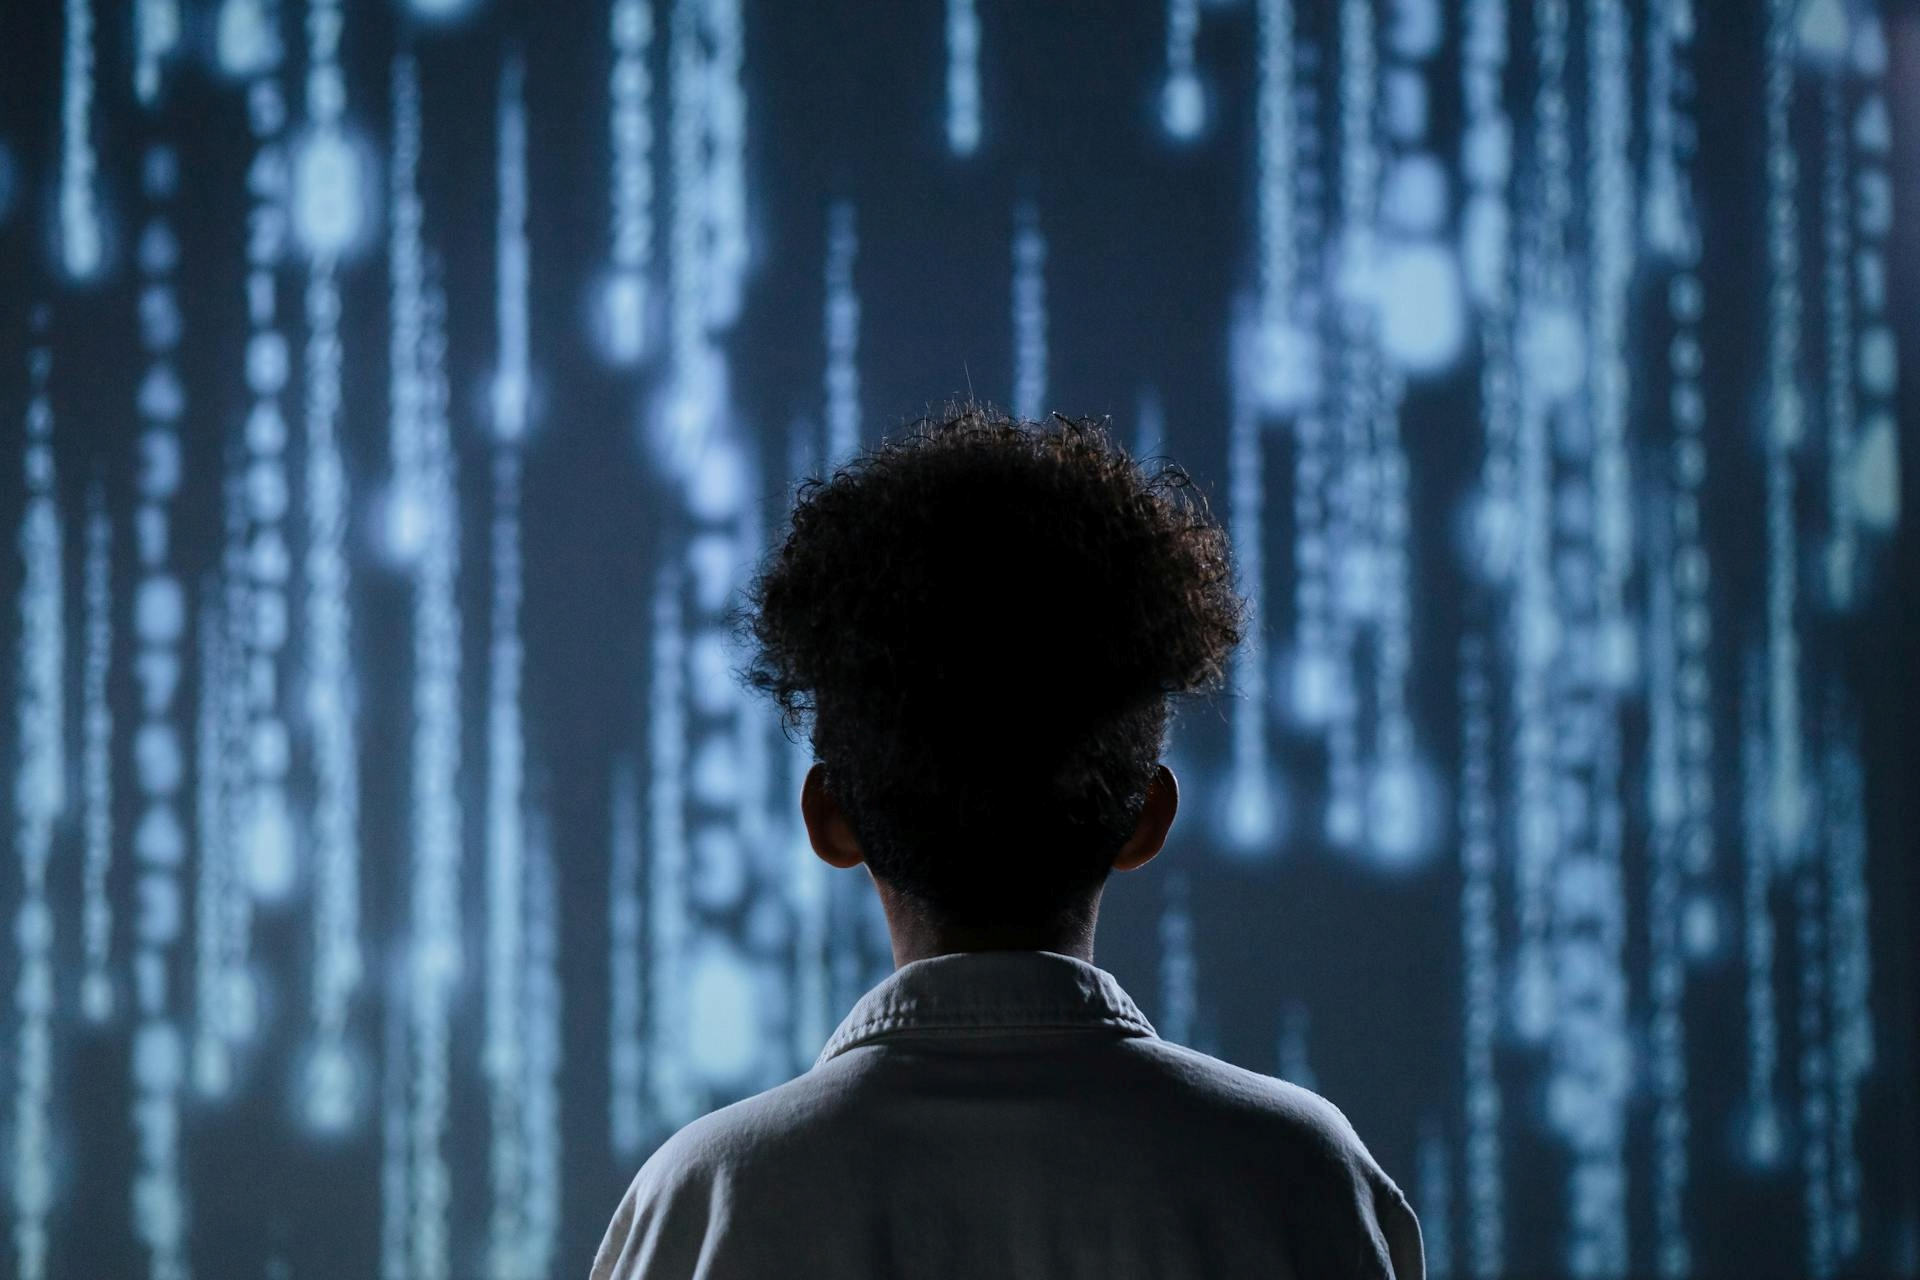
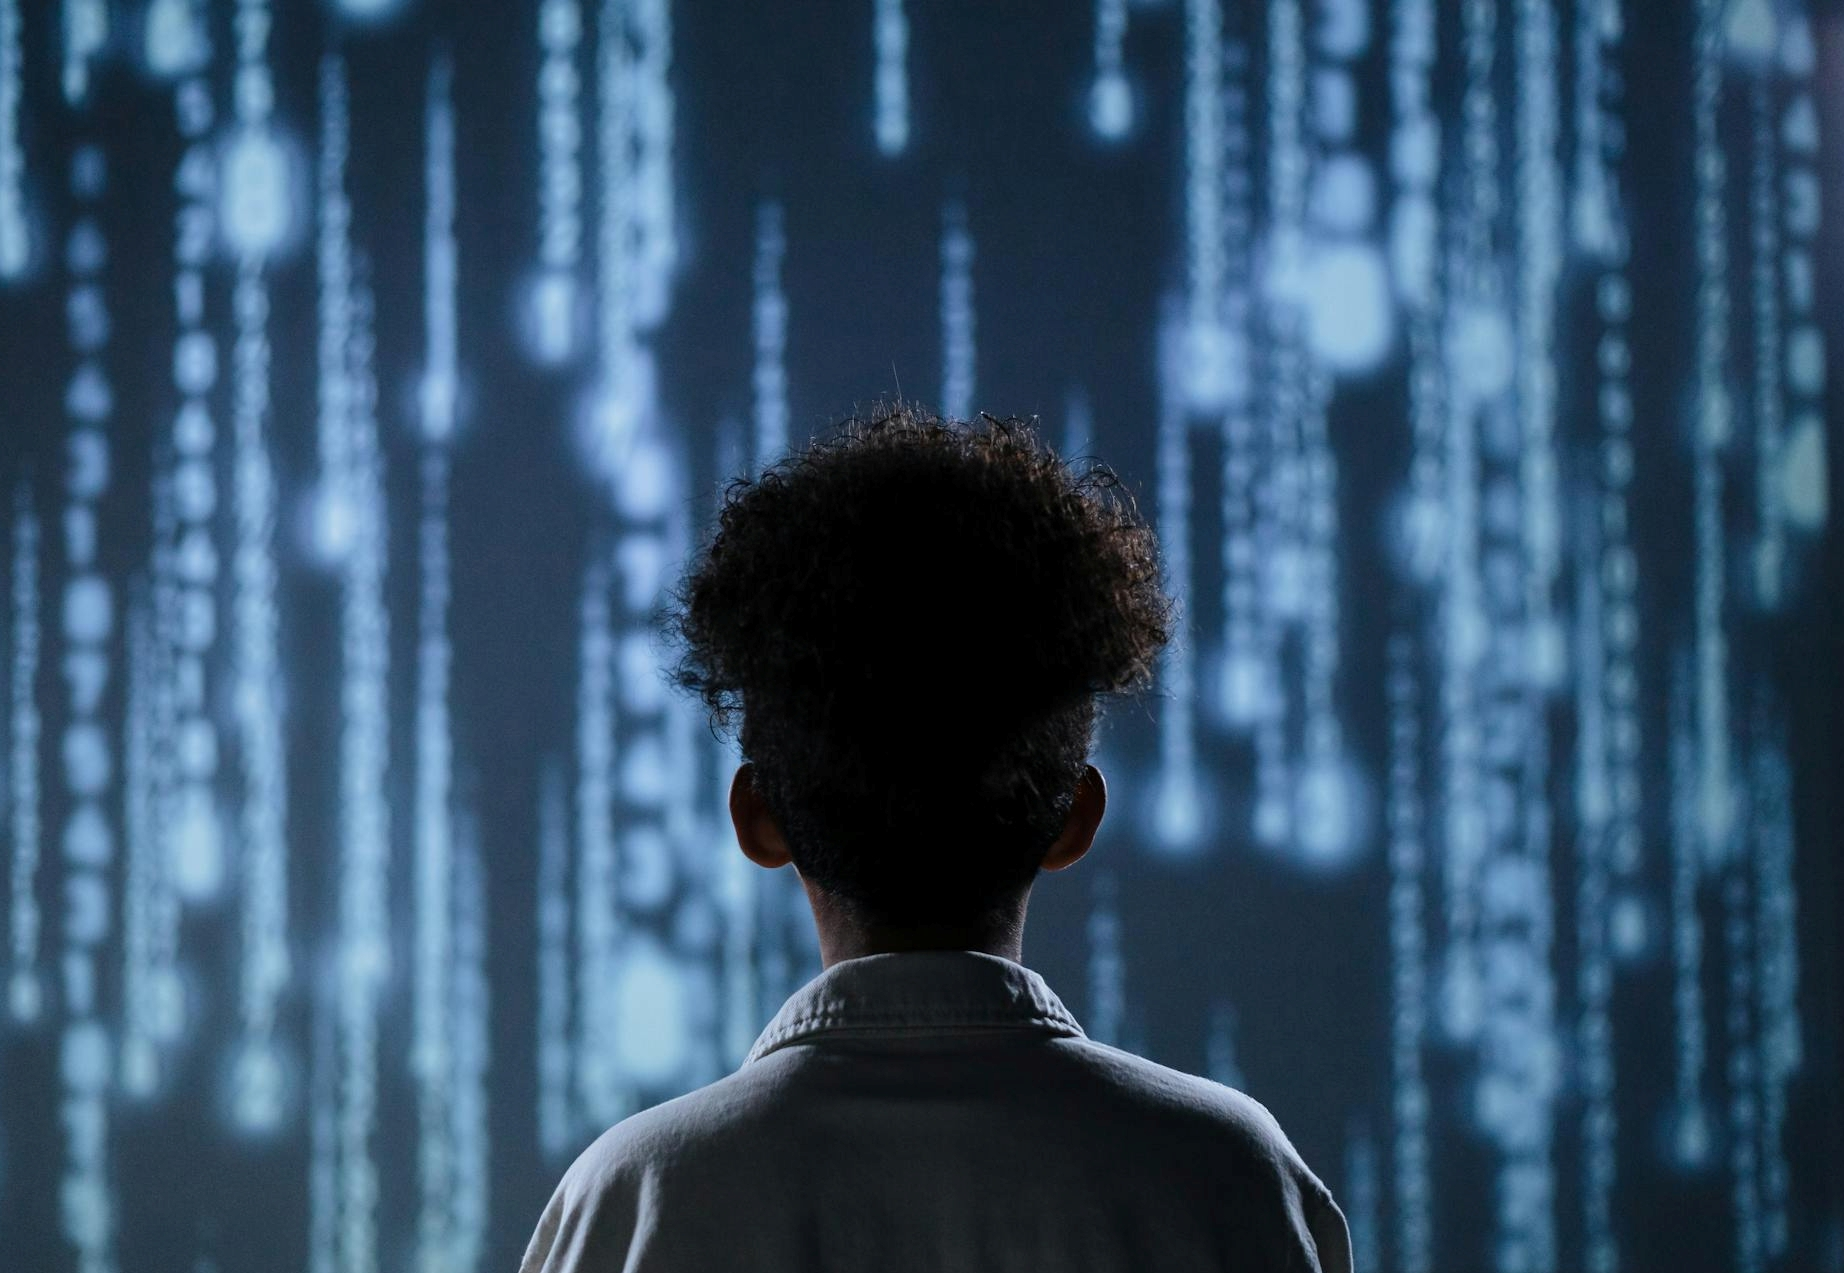
set new background image, set titles

diff --git a/index.html b/index.html
@@ -21,17 +21,16 @@
 							<h2><img src="images/logo.svg" class="logo" alt="" /></h2>
 							<p>plex innovations<br/></p>
 						</div>
-						<a href="#one" class="more scrolly">Learn More</a>
+						<a href="#one" class="more scrolly">Узнать больше</a>
 					</section>
 
 				<!-- One -->
 					<section id="one" class="wrapper style1 special">
 						<div class="inner">
 							<header class="major">
-								<h2>Arcu aliquet vel lobortis ata nisl<br />
-								eget augue amet aliquet nisl cep donec</h2>
-								<p>Aliquam ut ex ut augue consectetur interdum. Donec amet imperdiet eleifend<br />
-								fringilla tincidunt. Nullam dui leo Aenean mi ligula, rhoncus ullamcorper.</p>
+								<h2>С нами будущее ближе.<br/> Мы создаем его вместе с вами.</h2>
+								<p>Мы верим, что будущее строится вместе с нашими клиентами и партнерами <br />каждый шаг вперед—это совместное достижение.
+								</p>
 							</header>
 							<ul class="icons major">
 								<li><span class="icon fa-gem major style1"><span class="label">Lorem</span></span></li>
@@ -45,23 +44,20 @@
 					<section id="two" class="wrapper alt style2">
 						<section class="spotlight">
 							<div class="image"><img src="images/vr.jpg" alt="" /></div><div class="content">
-								<h2>Magna primis lobortis<br />
-								sed ullamcorper</h2>
-								<p>Aliquam ut ex ut augue consectetur interdum. Donec hendrerit imperdiet. Mauris eleifend fringilla nullam aenean mi ligula.</p>
+								<h2>Внедрение<br /> передовых технологий</h2>
+								<p>С нашей стороны — передовые технологии и экспертиза<br/> с вашей — идеи и стремления.</p>
 							</div>
 						</section>
 						<section class="spotlight">
 							<div class="image"><img src="images/team_work.jpg" alt="" /></div><div class="content">
-								<h2>Tortor dolore feugiat<br />
-								elementum magna</h2>
-								<p>Aliquam ut ex ut augue consectetur interdum. Donec hendrerit imperdiet. Mauris eleifend fringilla nullam aenean mi ligula.</p>
+								<h2>Развите команды</h2>
+								<p>Наши специалисты считают передачу знаний и опыта ключевой целью, стремясь вдохновить и обучить своих коллег для достижения общих успехов и инноваций.</p>
 							</div>
 						</section>
 						<section class="spotlight">
 							<div class="image"><img src="images/brainstorm.jpg" alt="" /></div><div class="content">
-								<h2>Augue eleifend aliquet<br />
-								sed condimentum</h2>
-								<p>Aliquam ut ex ut augue consectetur interdum. Donec hendrerit imperdiet. Mauris eleifend fringilla nullam aenean mi ligula.</p>
+								<h2>Командная работа</h2>
+								<p>Вместе мы создаем решения, которые не просто отвечают требованиям времени, но и задают новые стандарты для индустрии</p>
 							</div>
 						</section>
 					</section>
@@ -70,34 +66,33 @@
 					<section id="three" class="wrapper style3 special">
 						<div class="inner">
 							<header class="major">
-								<h2>Accumsan mus tortor nunc aliquet</h2>
-								<p>Aliquam ut ex ut augue consectetur interdum. Donec amet imperdiet eleifend<br />
-								fringilla tincidunt. Nullam dui leo Aenean mi ligula, rhoncus ullamcorper.</p>
+								<h2>Наши главные правила</h2>
+								<p>В нашей компании мы следуем четким и принципиальным правилам, <br/> которые помогают нам оставаться лидерами и поддерживать высокий уровень доверия</p>
 							</header>
 							<ul class="features">
 								<li class="icon fa-paper-plane">
-									<h3>Arcu accumsan</h3>
-									<p>Augue consectetur sed interdum imperdiet et ipsum. Mauris lorem tincidunt nullam amet leo Aenean ligula consequat consequat.</p>
+									<h3>Наставничество и обучение</h3>
+									<p>Наши специалисты считают передачу знаний и опыта ключевой целью, вдохновляя и обучая своих коллег для достижения общих успехов и инноваций.</p>
 								</li>
 								<li class="icon solid fa-laptop">
-									<h3>Ac Augue Eget</h3>
-									<p>Augue consectetur sed interdum imperdiet et ipsum. Mauris lorem tincidunt nullam amet leo Aenean ligula consequat consequat.</p>
+									<h3>Инновации и технологии</h3>
+									<p>Мы активно внедряем передовые технологии и инновационные подходы, чтобы оставаться лидерами в нашей области.</p>
 								</li>
 								<li class="icon solid fa-code">
-									<h3>Mus Scelerisque</h3>
-									<p>Augue consectetur sed interdum imperdiet et ipsum. Mauris lorem tincidunt nullam amet leo Aenean ligula consequat consequat.</p>
+									<h3>Высокий уровень профессионализма</h3>
+									<p>Мы ставим высокие стандарты качества и профессионализма во всем, что делаем, и постоянно развиваем наши навыки и знания.</p>
 								</li>
 								<li class="icon solid fa-headphones-alt">
-									<h3>Mauris Imperdiet</h3>
-									<p>Augue consectetur sed interdum imperdiet et ipsum. Mauris lorem tincidunt nullam amet leo Aenean ligula consequat consequat.</p>
+									<h3>Забота о клиентах</h3>
+									<p>Наши клиенты — наш приоритет. Мы стремимся удовлетворить их потребности и превзойти их ожидания, предоставляя высококачественные решения и услуги.</p>
 								</li>
 								<li class="icon fa-heart">
-									<h3>Aenean Primis</h3>
-									<p>Augue consectetur sed interdum imperdiet et ipsum. Mauris lorem tincidunt nullam amet leo Aenean ligula consequat consequat.</p>
+									<h3>Ценность каждого сотрудника</h3>
+									<p>Мы высоко ценим вклад каждого члена нашей команды и стремимся создавать благоприятные условия для их личного и профессионального роста.</p>
 								</li>
 								<li class="icon fa-flag">
-									<h3>Tortor Ut</h3>
-									<p>Augue consectetur sed interdum imperdiet et ipsum. Mauris lorem tincidunt nullam amet leo Aenean ligula consequat consequat.</p>
+									<h3>Прозрачность и доверие</h3>
+									<p>Мы строим наши отношения на принципах прозрачности, доверия и честности, стремясь быть открытыми и ответственными перед нашими клиентами и сотрудниками.</p>
 								</li>
 							</ul>
 						</div>

diff --git a/assets/css/main.css b/assets/css/main.css
@@ -3981,10 +3981,10 @@ input, select, textarea {
 
 	body.is-mobile.landing #banner,
 	body.is-mobile.landing .wrapper.style4 {
-		background-image: -moz-linear-gradient(top, rgba(0,0,0,0.5), rgba(0,0,0,0.5)), url("../../images/banner.jpg");
-		background-image: -webkit-linear-gradient(top, rgba(0,0,0,0.5), rgba(0,0,0,0.5)), url("../../images/banner.jpg");
-		background-image: -ms-linear-gradient(top, rgba(0,0,0,0.5), rgba(0,0,0,0.5)), url("../../images/banner.jpg");
-		background-image: linear-gradient(top, rgba(0,0,0,0.5), rgba(0,0,0,0.5)), url("../../images/banner.jpg");
+		background-image: -moz-linear-gradient(top, rgba(0,0,0,0.5), rgba(0,0,0,0.5)), url("../../images/banner_main.jpg");
+		background-image: -webkit-linear-gradient(top, rgba(0,0,0,0.5), rgba(0,0,0,0.5)), url("../../images/banner_main.jpg");
+		background-image: -ms-linear-gradient(top, rgba(0,0,0,0.5), rgba(0,0,0,0.5)), url("../../images/banner_main.jpg");
+		background-image: linear-gradient(top, rgba(0,0,0,0.5), rgba(0,0,0,0.5)), url("../../images/banner_main.jpg");
 		background-position: center center;
 		background-repeat: no-repeat;
 		background-size: cover;
